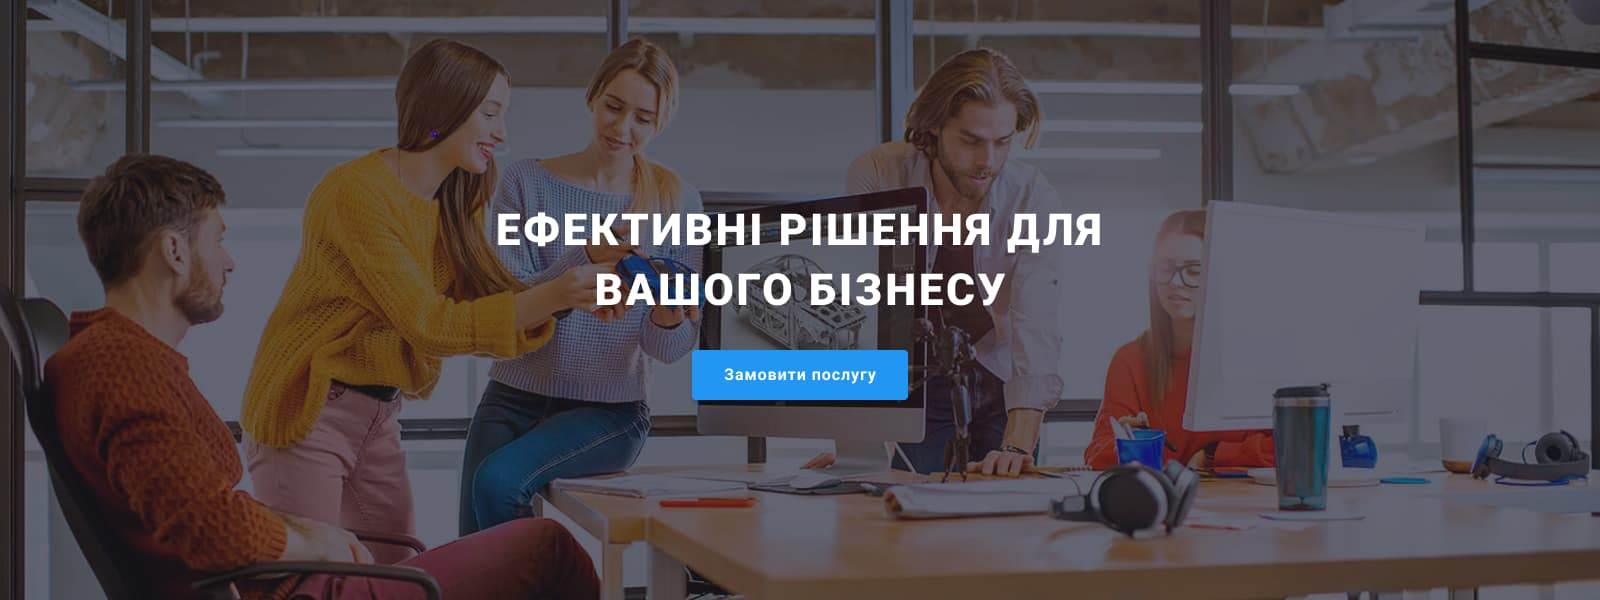
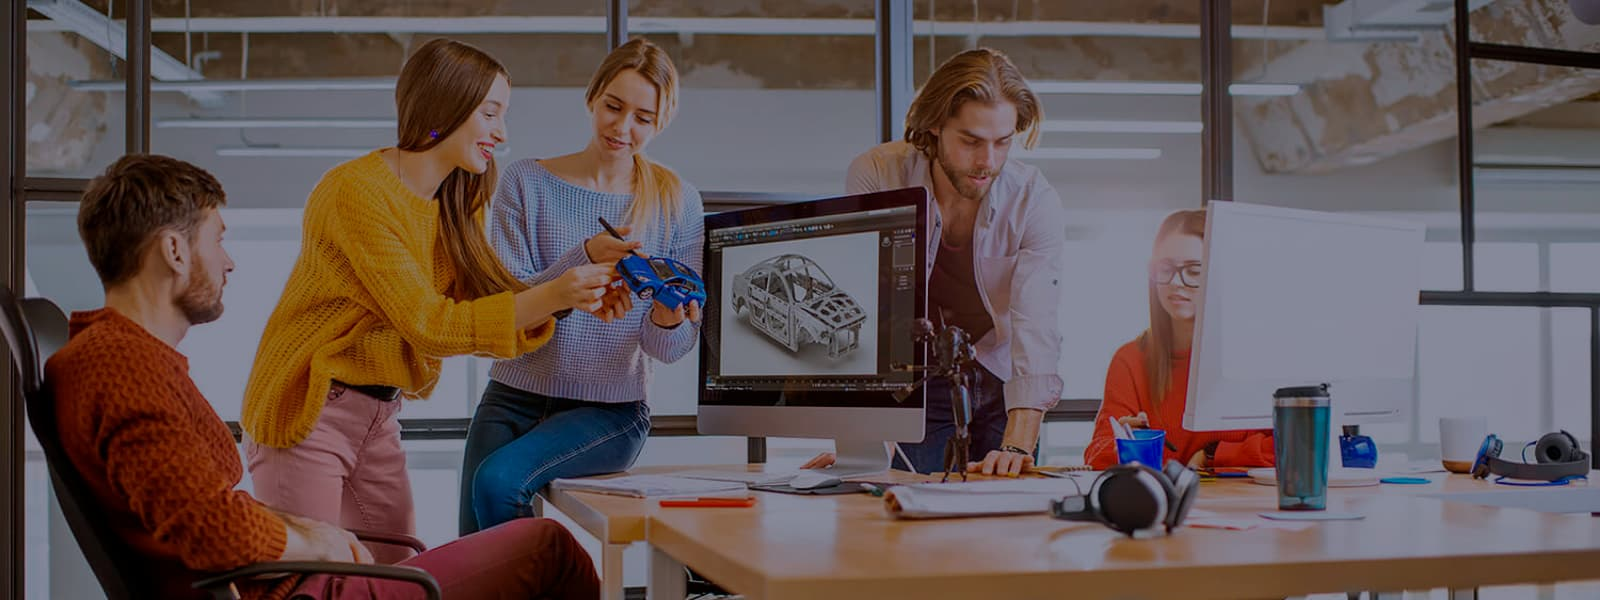
index done

diff --git a/css/styles.css b/css/styles.css
@@ -144,7 +144,9 @@ ul {
   min-height: 600px;
   margin-left: auto;
   margin-right: auto;
-  background-image: url(../images/cap.jpg);
+
+  background-image: linear-gradient(to right, rgba(47, 48, 58, 0.4), rgba(47, 48, 58, 0.4)),
+    url(../images/cap.jpg);
   background-color: var(--hero-bcg);
   background-repeat: no-repeat;
   background-position: center;
